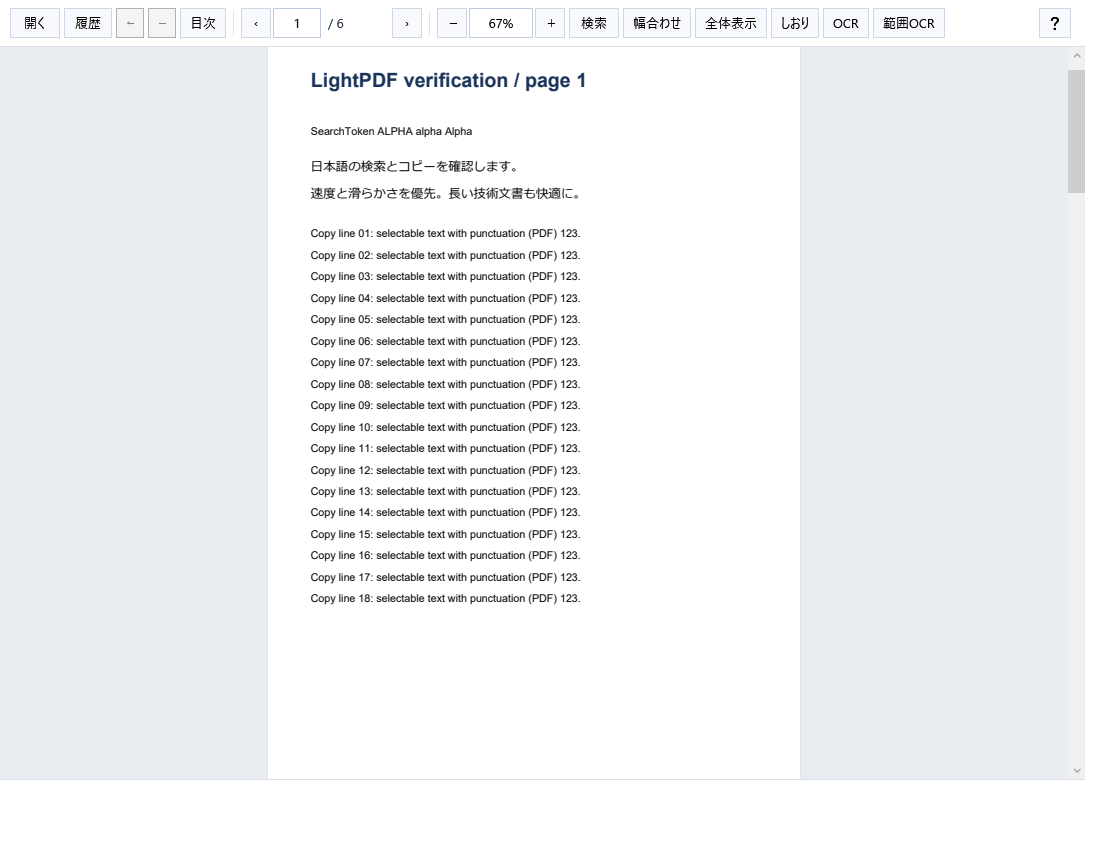
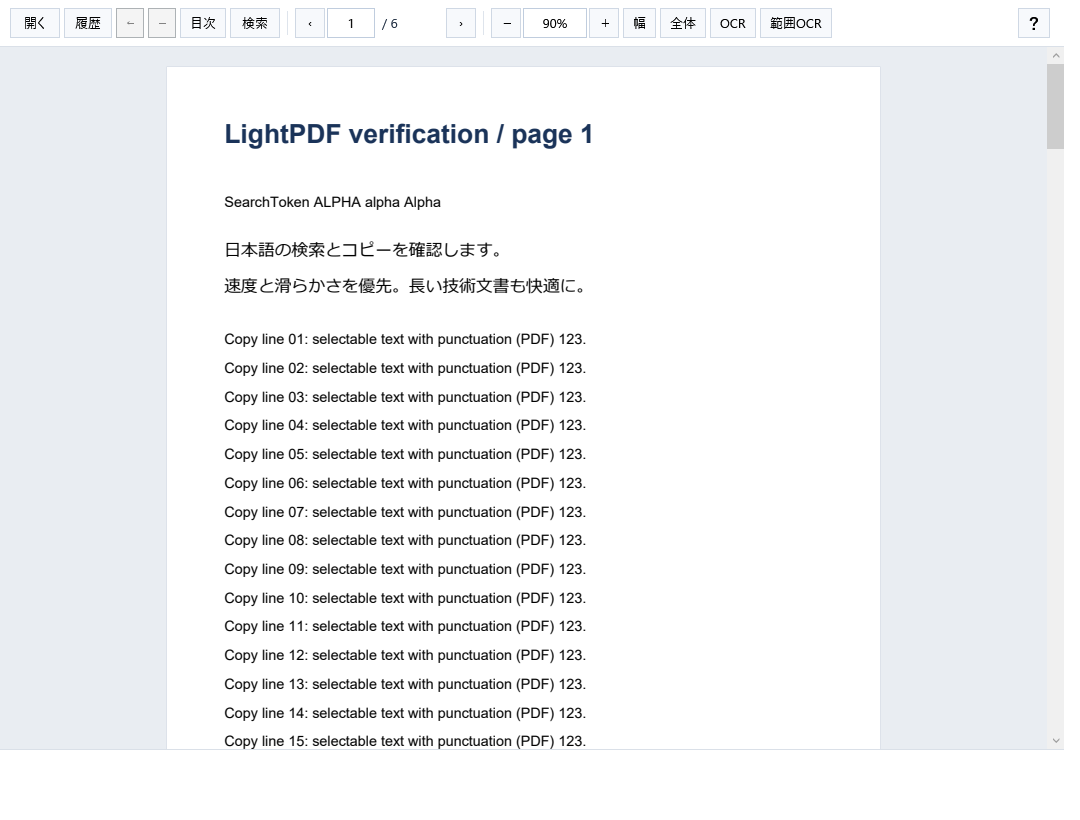
Release v0.3.2 toolbar layout update

Changed region(s): [[0.1833, 0.1524, 0.55, 0.9146], [0.0, 0.0, 0.8556, 0.122], [0.9472, 0.1829, 1.0, 0.2439]]

diff --git a/CHANGELOG.md b/CHANGELOG.md
@@ -1,5 +1,14 @@
 # 変更履歴
 
+## v0.3.2 — 2026-10-11
+
+- 「検索」を「目次」のすぐ右へ移動。
+- 表示範囲のボタン名を「幅」「全体」に短縮。詳しい操作名はツールチップと幅不足時のメニューに表示します。
+- 個人しおりのボタンと操作を廃止し、ヘルプ・操作説明を更新。
+- PDF内の目次、読書位置・倍率の復元、戻る／進むは引き続き利用できます。
+
+Windows 11の隔離デスクトップで758項目を検査。EXE＋補助フォルダ構成とReadyToRunを維持し、ソースコードは非公開で管理します。
+
 ## v0.3.1 — 2026-10-11
 
 - 幅に収まる操作をツールバーへ戻し、あふれた操作だけ「…」へ移動。ウィンドウを広げるとボタンへ戻ります。
